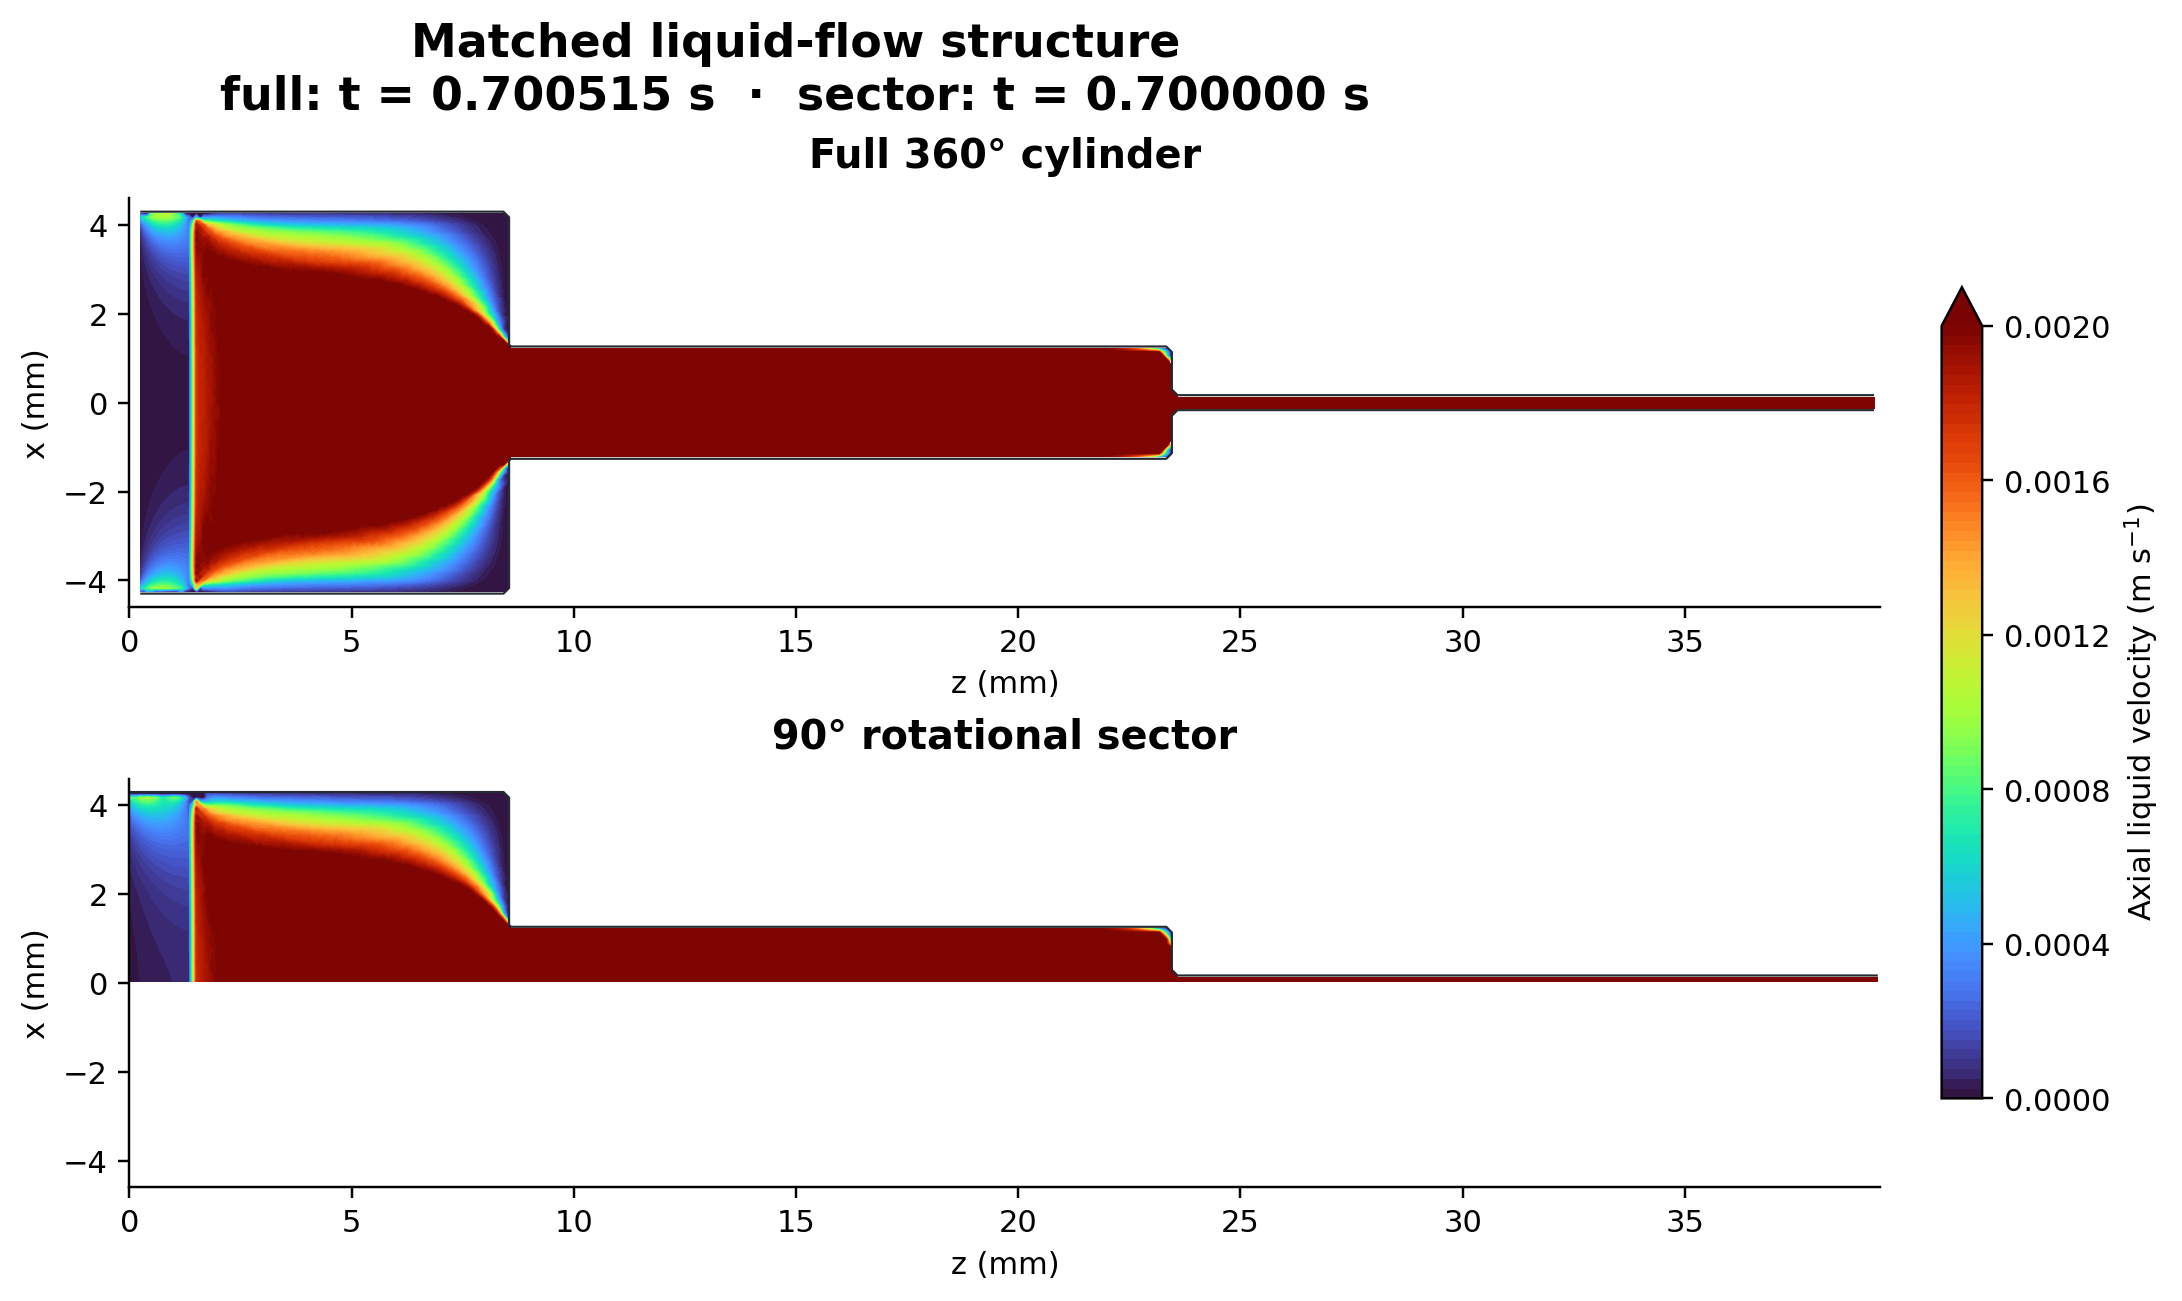
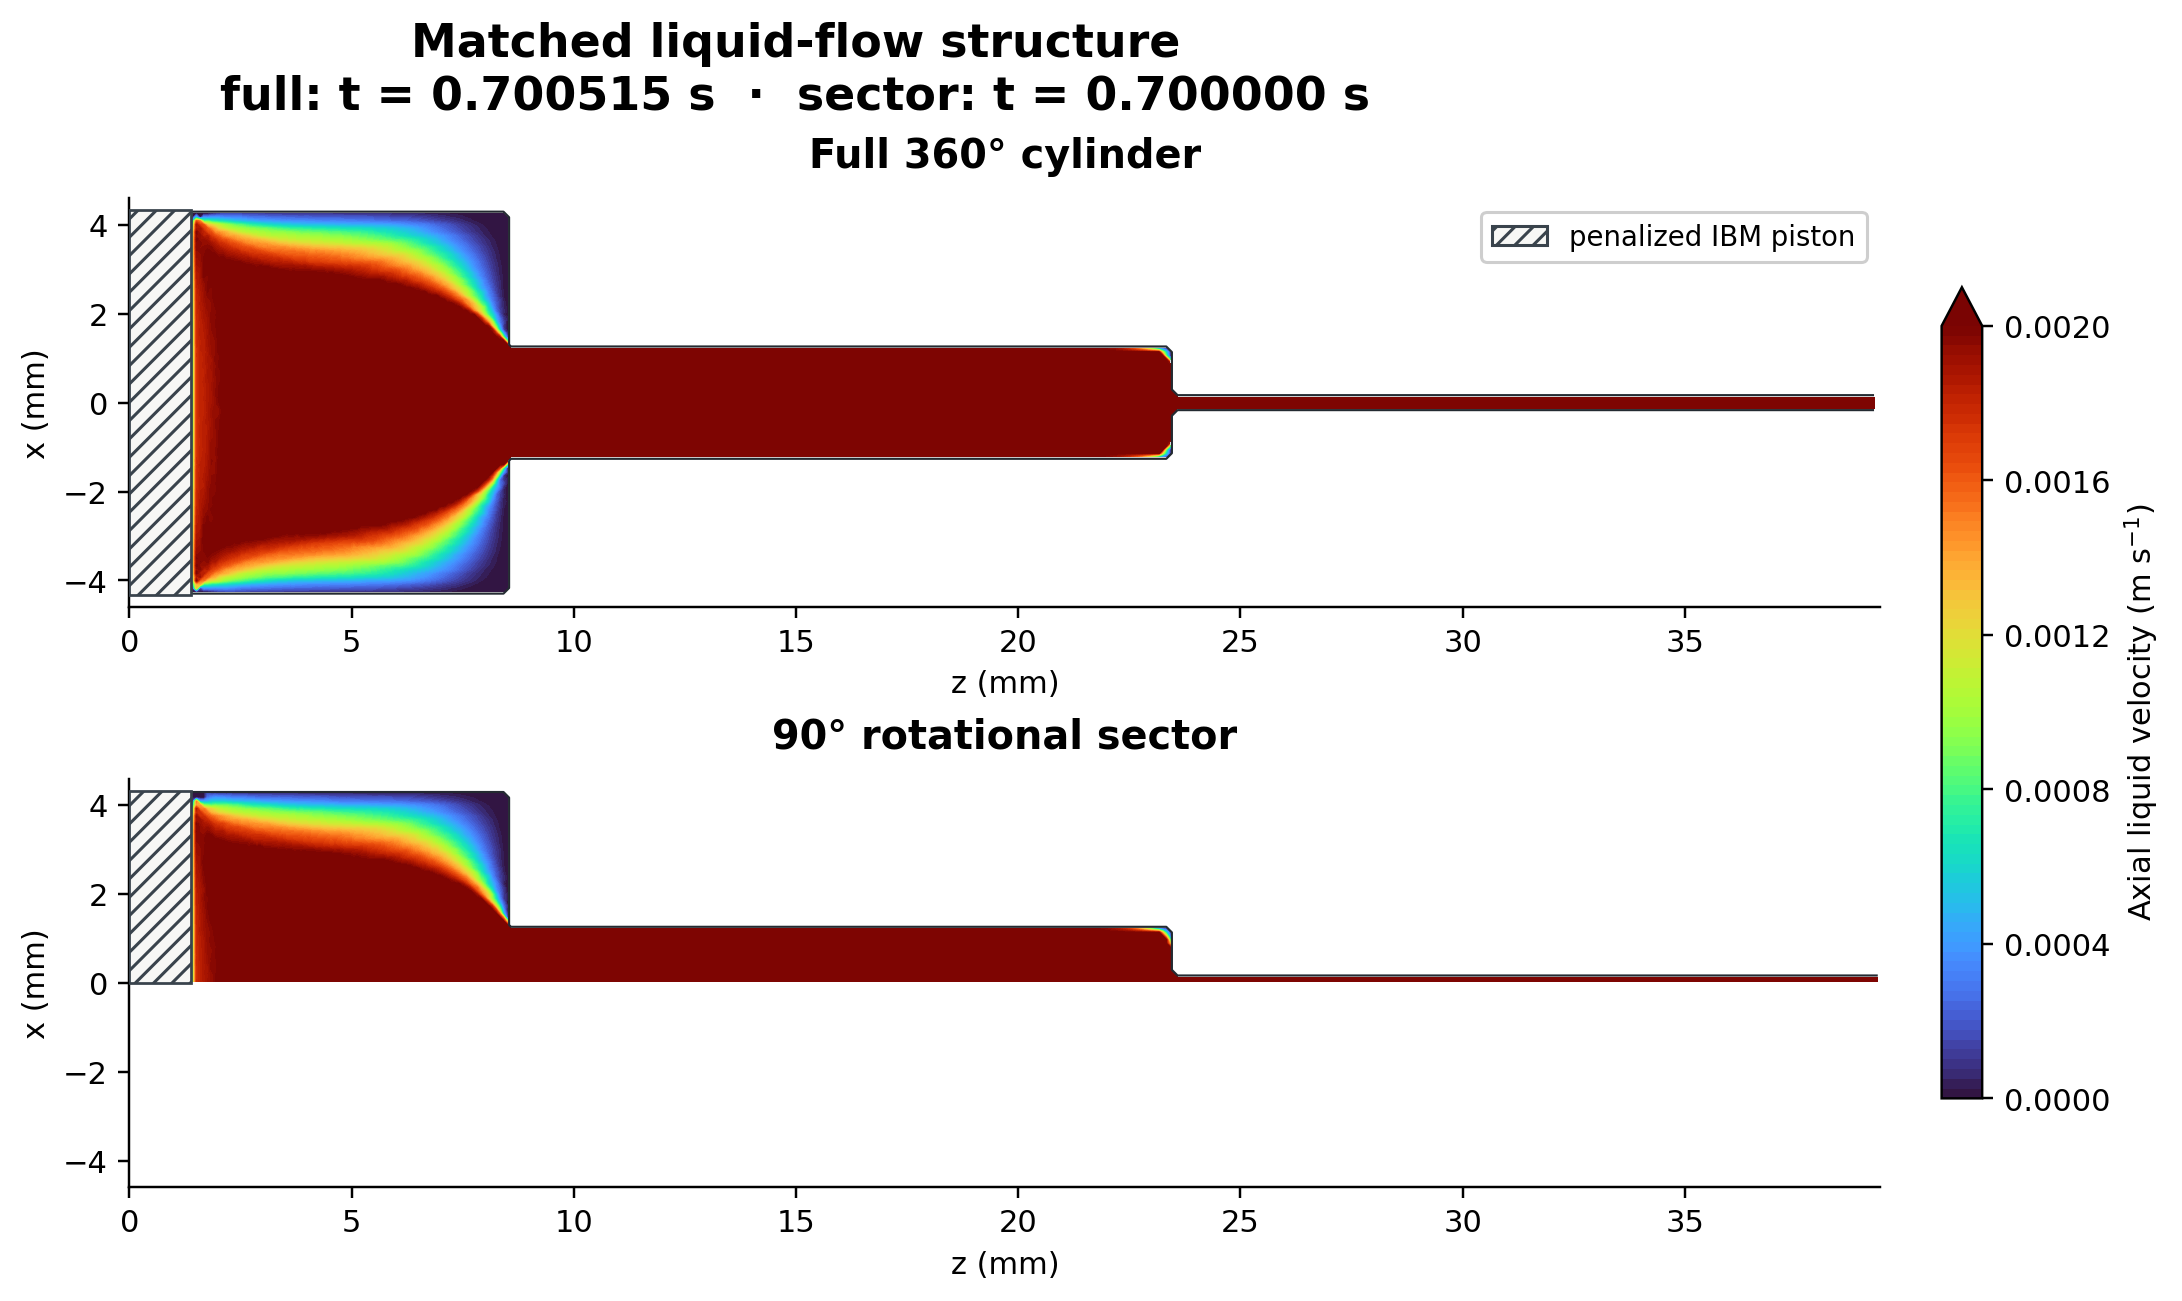
Show IBM piston and restore 3D particle view

Changed region(s): [[0.6856, 0.1537, 0.8414, 0.2152], [0.0623, 0.1537, 0.0935, 0.4612], [0.0312, 0.5842, 0.0935, 0.7686]]

diff --git a/scripts/render_snapshot_comparison.py b/scripts/render_snapshot_comparison.py
@@ -10,6 +10,7 @@ import matplotlib as mpl
 import matplotlib.pyplot as plt
 import numpy as np
 import vtk
+from matplotlib.patches import Patch, Rectangle
 from vtk.util.numpy_support import vtk_to_numpy
 
 
@@ -108,6 +109,9 @@ def plot_flow(
     sector: dict[str, np.ndarray],
     full_time: float,
     sector_time: float,
+    piston_z0: float,
+    piston_speed: float,
+    piston_radius: float,
     output: Path,
 ) -> None:
     center_y = int(np.argmin(np.abs(full["y"])))
@@ -121,17 +125,27 @@ def plot_flow(
 
     fig, axes = plt.subplots(2, 1, figsize=(12.5, 5.8), constrained_layout=True)
     panels = (
-        (axes[0], full["z"] * MM, full["x"] * MM, full_w.T, "Full 360° cylinder"),
+        (
+            axes[0],
+            full["z"] * MM,
+            full["x"] * MM,
+            full_w.T,
+            "Full 360° cylinder",
+            full_time,
+            False,
+        ),
         (
             axes[1],
             sector["z"] * MM,
             sector["x"] * MM,
             sector_w.T,
             "90° rotational sector",
+            sector_time,
+            True,
         ),
     )
     contour = None
-    for axis, horizontal, vertical, field, title in panels:
+    for axis, horizontal, vertical, field, title, time_s, is_sector in panels:
         contour = axis.contourf(
             horizontal,
             vertical,
@@ -148,6 +162,21 @@ def plot_flow(
             colors="#232a31",
             linewidths=0.7,
         )
+        piston_z = (piston_z0 + piston_speed * time_s) * MM
+        piston_bottom = 0.0 if is_sector else -piston_radius * MM
+        piston_height = piston_radius * MM if is_sector else 2.0 * piston_radius * MM
+        axis.add_patch(
+            Rectangle(
+                (0.0, piston_bottom),
+                piston_z,
+                piston_height,
+                facecolor="#f7f7f5",
+                edgecolor="#39434c",
+                hatch="////",
+                linewidth=0.9,
+                zorder=5,
+            )
+        )
         axis.set_title(title, fontsize=13, weight="semibold", pad=10)
         axis.set_xlabel("z (mm)")
         axis.set_ylabel("x (mm)")
@@ -155,6 +184,20 @@ def plot_flow(
         axis.set_ylim(-4.6, 4.6)
         axis.set_aspect("equal", adjustable="box")
         style_axis(axis)
+    axes[0].legend(
+        handles=[
+            Patch(
+                facecolor="#f7f7f5",
+                edgecolor="#39434c",
+                hatch="////",
+                label="penalized IBM piston",
+            )
+        ],
+        loc="upper right",
+        frameon=True,
+        framealpha=0.95,
+        fontsize=9,
+    )
     colorbar = fig.colorbar(contour, ax=axes, location="right", shrink=0.82, pad=0.025)
     colorbar.set_ticks(np.linspace(LIQUID_VELOCITY_MIN, LIQUID_VELOCITY_MAX, 6))
     colorbar.set_label("Axial liquid velocity (m s$^{-1}$)")
@@ -253,15 +296,39 @@ def geometry_profile(fields: dict[str, np.ndarray]) -> tuple[np.ndarray, np.ndar
     return fields["z"][valid] * MM, radii[valid] * MM
 
 
-def draw_side_geometry(
+def draw_3d_geometry(
     axis: plt.Axes, profile_z: np.ndarray, profile_r: np.ndarray, sector: bool
 ) -> None:
     line = dict(color="#263746", linewidth=0.8, alpha=0.78)
-    axis.plot(profile_z, profile_r, **line)
+    transition = np.flatnonzero(np.abs(np.diff(profile_r)) > 0.15)
+    ring_indices = np.unique(np.concatenate(([0], transition, transition + 1, [-1])))
     if sector:
-        axis.plot([profile_z[0], profile_z[-1]], [0.0, 0.0], **line)
+        theta = np.linspace(0.0, np.pi / 2.0, 80)
+        generators = (0.0, np.pi / 4.0, np.pi / 2.0)
     else:
-        axis.plot(profile_z, -profile_r, **line)
+        theta = np.linspace(0.0, 2.0 * np.pi, 150)
+        generators = (0.0, np.pi / 2.0, np.pi, 3.0 * np.pi / 2.0)
+    for index in ring_indices:
+        radius = profile_r[index]
+        z_value = profile_z[index]
+        axis.plot(
+            np.full_like(theta, z_value),
+            radius * np.cos(theta),
+            radius * np.sin(theta),
+            **line,
+        )
+        if sector:
+            axis.plot([z_value, z_value], [0.0, radius], [0.0, 0.0], **line)
+            axis.plot([z_value, z_value], [0.0, 0.0], [0.0, radius], **line)
+    for angle in generators:
+        axis.plot(
+            profile_z,
+            profile_r * np.cos(angle),
+            profile_r * np.sin(angle),
+            **line,
+        )
+    if sector:
+        axis.plot(profile_z, np.zeros_like(profile_z), np.zeros_like(profile_z), **line)
 
 
 def plot_particles(
@@ -283,7 +350,11 @@ def plot_particles(
     v_min, v_max = np.nanpercentile(all_velocity, (1.0, 99.0))
     norm = mpl.colors.Normalize(vmin=v_min, vmax=v_max)
 
-    fig, axes = plt.subplots(2, 1, figsize=(12.5, 5.8), constrained_layout=True)
+    fig = plt.figure(figsize=(13.0, 5.8))
+    axes = [
+        fig.add_axes((0.02, 0.10, 0.42, 0.68), projection="3d"),
+        fig.add_axes((0.45, 0.10, 0.42, 0.68), projection="3d"),
+    ]
     panels = (
         (
             axes[0],
@@ -305,6 +376,7 @@ def plot_particles(
         scatter = axis.scatter(
             points[:, 2] * MM,
             points[:, 0] * MM,
+            points[:, 1] * MM,
             c=velocity,
             cmap="viridis",
             norm=norm,
@@ -313,21 +385,34 @@ def plot_particles(
             linewidths=0,
             rasterized=True,
         )
-        draw_side_geometry(axis, profile_z, profile_r, is_sector)
-        axis.set_title(title, fontsize=13, weight="semibold", pad=10)
+        draw_3d_geometry(axis, profile_z, profile_r, is_sector)
         axis.set_xlabel("z (mm)")
-        axis.set_ylabel("x (mm)")
+        axis.set_ylabel("x (mm)", labelpad=2)
+        axis.set_zlabel("y (mm)", labelpad=2)
         axis.set_xlim(0.0, 39.4)
         axis.set_ylim(-4.6, 4.6)
-        axis.set_aspect("equal", adjustable="box")
-        style_axis(axis)
-    colorbar = fig.colorbar(scatter, ax=axes, location="right", shrink=0.82, pad=0.025)
+        axis.set_zlim(-4.6, 4.6)
+        axis.set_box_aspect((4.3, 1.0, 1.0), zoom=1.18)
+        axis.view_init(elev=17, azim=-72)
+        axis.xaxis.set_major_locator(mpl.ticker.MaxNLocator(5))
+        axis.yaxis.set_major_locator(mpl.ticker.MaxNLocator(3))
+        axis.zaxis.set_major_locator(mpl.ticker.MaxNLocator(3))
+        axis.tick_params(pad=0, labelsize=8)
+        axis.grid(False)
+        axis.xaxis.pane.set_alpha(0.0)
+        axis.yaxis.pane.set_alpha(0.0)
+        axis.zaxis.pane.set_alpha(0.0)
+    fig.text(0.23, 0.80, panels[0][3], ha="center", va="center", fontsize=12, weight="semibold")
+    fig.text(0.66, 0.80, panels[1][3], ha="center", va="center", fontsize=12, weight="semibold")
+    color_axis = fig.add_axes((0.90, 0.16, 0.018, 0.58))
+    colorbar = fig.colorbar(scatter, cax=color_axis)
     colorbar.set_label("Particle axial velocity, $v_{p,z}$ (m s$^{-1}$)")
     fig.suptitle(
         "Particle distribution inside the simulated geometry\n"
         f"full: t = {full_time:.6f} s  ·  sector: t = {sector_time:.6f} s",
         fontsize=15,
         weight="semibold",
+        y=0.97,
     )
     output.parent.mkdir(parents=True, exist_ok=True)
     fig.savefig(output, dpi=220, bbox_inches="tight", facecolor="white")
@@ -341,6 +426,9 @@ def parse_args() -> argparse.Namespace:
     parser.add_argument("--sector-flow", type=Path, required=True)
     parser.add_argument("--sector-particles", type=Path, required=True)
     parser.add_argument("--output-dir", type=Path, required=True)
+    parser.add_argument("--piston-z0", type=float, default=0.0002)
+    parser.add_argument("--piston-speed", type=float, default=0.0017)
+    parser.add_argument("--piston-radius", type=float, default=0.00433)
     return parser.parse_args()
 
 
@@ -360,6 +448,9 @@ def main() -> None:
         sector_grid,
         full_time,
         sector_time,
+        args.piston_z0,
+        args.piston_speed,
+        args.piston_radius,
         args.output_dir / "matched_liquid_flow.png",
     )
     plot_cross_section(

diff --git a/README.md b/README.md
@@ -55,7 +55,9 @@ the same simulated time: `0.700515 s` for the full cylinder and `0.700000 s`
 for the 90° sector. Both flow panels use the same `0–0.002 m/s` axial liquid
 velocity range, identical plot limits, and a common physical axis scale. They
 are longitudinal views near the `y = 0` plane, with `z` horizontal and `x`
-vertical.
+vertical. The light hatched region identifies the volume occupied by the
+penalized IBM piston, whose plane is at approximately `z = 1.39 mm` in these
+snapshots.
 
 ![Matched full-cylinder and C90 axial liquid-flow fields](figures/validation/matched_liquid_flow.png)
 
@@ -66,9 +68,9 @@ the simulated quadrant retain the same coordinate and velocity scales.
 ![Matched axial liquid-velocity cross sections at z = 5 mm](figures/validation/matched_liquid_velocity_cross_section_z5mm.png)
 
 The particle view uses the geometry extracted from the fluid volume-fraction
-field and colors particles by axial velocity on a shared scale. The side
-projections use the same horizontal-`z`, vertical-`x` convention and equal
-physical axis scaling. At this
+field and colors particles by axial velocity on a shared scale. Perspective
+3D views keep the syringe axis horizontal and use identical coordinate bounds
+and geometry aspect ratios. At this
 instant, the full cylinder contains 432,544 particles; the sector contains
 107,562, equivalent to 430,248 particles after fourfold replication. A
 deterministic display subset is used only to keep the raster figure legible.

diff --git a/scripts/README.md b/scripts/README.md
@@ -30,4 +30,6 @@ python3 scripts/render_snapshot_comparison.py \
 ```
 
 Use `--full-particles` only when the full-cylinder particles are stored in a
-different plotfile directory from its flow fields.
+different plotfile directory from its flow fields. The piston overlay defaults
+to `z0 = 0.2 mm`, speed `1.7 mm/s`, and radius `4.33 mm`; the corresponding
+`--piston-z0`, `--piston-speed`, and `--piston-radius` options use SI units.
